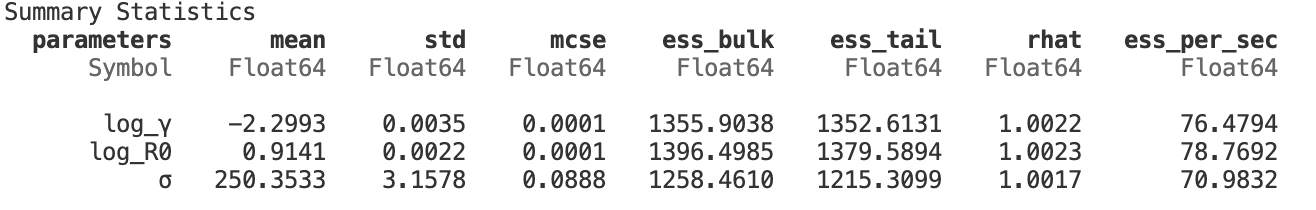
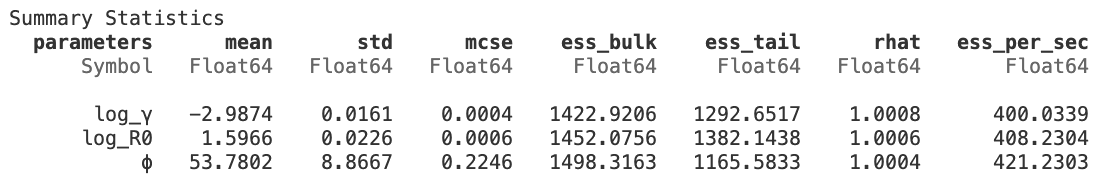
Update

diff --git a/scientific-programming-julia/index.html b/scientific-programming-julia/index.html
@@ -107,9 +107,6 @@
                 2. Inference
                 <br>
                 3. Model checking (and or improvement)
-                <br>
-                And then tests the model further by forecasting different scenarios 
-                during an epidemic.
             </p>
         </section>
 
@@ -159,51 +156,92 @@ end</code></pre>
             </div>
 
             <p class="text-gray-700 mt-6 mb-6">
-                Within this system, $\beta$ is the infection rate and $\gamma$ is the recovery rate - these allow a variety of diseases to be modelled. In this case, I chose the recovery time to be roughly 10 days, which gives $\gamma = 0.1$. $\beta = 0.25$ says that roughly a quarter of interactions will result in the disease being transmitted.
+                Within this system, $\beta$ is the infection rate and $\gamma$ is the recovery rate - 
+                these allow a variety of diseases to be modelled. In this case, the recovery time is set
+                to be roughly 20 days, which gives $\gamma = 0.05$. $\beta = 0.25$ says that in a fully 
+                susceptible population the rate at which an individual infects others is a quarter per day.
                 <br><br>
-                $R_0$ is the basic reproductive number, which is the expected number of cases directly generated by one case in a population where all individuals are susceptible to infection. $R_0$ is given by $R_0=\beta/\gamma$, hence, in this case, $R_0 = 2.5$, which for context gives it a similar infection profile to the common cold.
+                $R_0$ is the basic reproductive number, which is the expected number of cases directly 
+                generated by one case in a population where all individuals are susceptible to infection. 
+                $R_0$ is given by $R_0=\beta/\gamma$, hence, in this case, $R_0 = 5$, which for context gives 
+                it a similar infection profile to the common cold.
                 <br><br>
-                Using these values, the model with known parameters is used to calculate the solution to the system of ODEs. Adding Gaussian noise mimics the reporting biases, miscounting and other inconsistencies which is seen in real-world data.
+                Using these values, the model with known parameters is used to calculate 
+                the solution to the system of ODEs. Adding noise sampled from a negative binomial
+                distribution, mimics the reporting biases, miscounting and other inconsistencies which is 
+                seen in real-world data.
                 <br><br>
                 The code below defines the initial conditions:
                 <br>
                 - $N$ (population) = 10,000
                 <br>
-                - $I_0$ (Inital number of individuals with the disease) = 75
+                - $I_0$ (Inital number of individuals with the disease) = 150
                 <br>
                 - $R_0$ (Initial number of individuals who are immune to the disease) = 0
             </p>
             <div class="code-block">
-                <pre><code># Synthetic data generation
+                <pre><code>
+# Initial conditions and constants
 N = 1e4
 β_true = 0.25 # per day
-γ_true = 0.10 # per day (≈ 10-day infectious period)
+γ_true = 0.05 # per day (≈ 20-day infectious period)
 p = [β_true, γ_true]
 
-I0 = 75.0
+I0 = 150.0
 S0 = N - I0
 R0 = 0.0
 u0 = [S0, I0, R0]
 
-tspan = (0.0, 100.0)
+tspan = (0.0, 75.0)
 
-# Generate synthetic data
+# Generate the true solution
 prob = ODEProblem(sir, u0, tspan, p)
-sol = solve(prob, Tsit5())
-plot(sol, title="Solution to β=$β_true and γ=$γ_true")
-savefig("figs/true_sol.png")
+sol = solve(prob, Tsit5(), saveat=1) # Save daily
 
-sol = solve(prob, Tsit5(), saveat=0.1)
-noise = 250 * randn(size(Array(sol)))
-odedata = Array(sol) + noise
-plot(sol, title="Solution to β=$β_true and γ=$γ_true\nwith Gaussian noise")
-scatter!(sol.t, odedata', markersize=1)
-savefig("figs/noisy_true_sol.png")</code></pre>
+# Model cumulative error in the total infected count over time
+phi = 50.0
+I_with_error = []
+for daily_mean in sol[2, :]
+    # Ensure mean is positive number for the negative binomial distribution
+    if daily_mean > 0
+        p_val = phi / (phi + daily_mean)
+        neg_bin_dist = NegativeBinomial(phi, p_val)
+        error = rand(neg_bin_dist)
+        push!(I_with_error, error)
+    else
+        # If the deterministic mean is zero, the noisy value should also be zero
+        push!(I_with_error, 0)
+    end
+end
+
+plot(I_with_error,
+     title="Number of Infecteds with Observation Error",
+     xlabel="Days",
+     ylabel="I(t)",
+     linewidth=1,
+     linecolor=:black,
+     legend=false)
+savefig("figs/observed_error_infected.png")
+
+plot(sol, 
+     label=["S(t)" "I(t)" "R(t)"], 
+     title="SIR Solution with Observation Error",
+     xlabel="Days",
+     ylabel="Number of People",
+     linewidth=2)
+
+plot!(sol.t, 
+    I_with_error,  # Plot only the noisy infected data
+    label="I(t) + ε(t)", 
+    markersize=3, 
+    markerstrokewidth=0,
+    color="black")
+savefig("figs/true_sol_and_error.png")</code></pre>
             </div>
 
             <h3 class="text-2xl font-semibold text-gray-900 mt-8 mb-2">Figure 1: True Solution</h3>
             <p class="text-gray-700 mb-4">
-                The solution of the SIR model with $\beta, \gamma = 0.25, 0.1$. 
+                The solution of the SIR model with $\beta, \gamma = 0.25, 0.05$. 
                 The blue trajectory is the Susceptible compartment, 
                 the orange is the Infected compartment 
                 and the green is the Recovered compartment.
@@ -240,29 +278,53 @@ savefig("figs/noisy_true_sol.png")</code></pre>
                 Setting the weakly-informed prior as $\gamma \sim \text{Normal}(\log(0.1), 0.5)$ 
                 encompasses recovery times from 1 day to 74 days.
                 <br><br>
-                Then, for a disease to become an epidemic, $R_0 > 1$. Our guess of 2 
-                is a good starting point and the prior $\beta \sim \text{Normal}(\log(2.0), 0.4)$ 
-                encompasses any $R_0$ value from 0.9 to 4.4. Hence $\beta$ can be calculated via 
-                $\beta=R_0 \cdot \gamma$.
+                For a disease to become an epidemic, $R_0 > 1$. Our guess of 2.0 is a 
+                good starting point, and the prior on the log-transformed basic 
+                reproductive number, $\log(R_0)$, is given by a Normal distribution: 
+                $\log(R_0) \sim \text{Normal}(\log(2.0), 0.4)$. This prior encompasses
+                 a plausible range for $R_0$ values, approximately from 0.9 to 4.4. 
+                 The prior $\phi \sim \text{Gamma}(2, 5)$ is for the overdispersion 
+                 parameter of the Negative Binomial likelihood, which models the amount
+                  of noise in the observed data. Finally, the infection rate $\beta$ 
+                  can be calculated from the relationship $\beta=R_0 \cdot \gamma$.
                 <br><br>
-                The code below uses Turing.jl's `@model` macro to define this. `@model` enables the user to assign probability distributions to variables in the function. It also takes data in as input, then calculates the likelihoods, which then connects the parameters to the observations. It also automatically prepares the model for inference in the MCMC algorithm.
+                The code below uses Turing.jl's `@model` macro to define this. 
+                `@model` enables the user to assign probability distributions 
+                to variables in the function. It also takes data in as input, 
+                then calculates the likelihoods, which then connects the parameters 
+                to the observations. It also automatically prepares the model for 
+                inference in the MCMC algorithm.
             </p>
             <div class="code-block">
-                <pre><code>@model function sir_model(data, prob)
-    log_γ ~ Normal(log(0.1), 0.5)
+                <pre><code>@model function sir_model(I, prob)
+    log_γ ~ Normal(log(0.05), 0.5)
     log_R0 ~ Normal(log(2.0), 0.4)
-    σ ~ truncated(Cauchy(0, 100), 0, Inf)
+    # Overdispersion prior (positive)
+    ϕ ~ Gamma(2, 5)
 
+    # Transform parameters 
     γ = exp(log_γ)
     R0 = exp(log_R0)
     β = R0 * γ
 
-    p = [β, γ]
-    prob = remake(prob, p=p)
-    predicted = solve(prob, Tsit5(), saveat=0.1)
-    
-    for i in eachindex(predicted)
-        data[:, i] ~ MvNormal(predicted[i], σ)
+    # Solve ODE
+    p_prob = [β, γ]
+    prob = remake(prob, p=p_prob)
+    predicted_sol = solve(prob, Tsit5(), saveat=1)
+
+    # If the ODE is stiff, error is thrown as size(predicted_sol) = (3, 1)
+    if predicted_sol.retcode != :Success
+        Turing.@addlogprob! -Inf
+        return
+    end
+
+    # Likelihood
+    for i in 1:length(I)
+        predicted_I = predicted_sol[2, i] 
+        μ = max(predicted_I, 1e-6)
+        # (r, p) parameterization
+        p_likelihood = ϕ / (ϕ + μ)
+        I[i] ~ NegativeBinomial(ϕ, p_likelihood) 
     end
 end</code></pre>
             </div>
@@ -280,13 +342,12 @@ end</code></pre>
                 <pre><code># -----------
 # Inference
 # -----------
-model = sir_model(odedata, prob)
+model = sir_model(I_with_error, prob)
 chain = mapreduce(c -> sample(model, NUTS(.65),1000), chainscat, 1:3)
 
 plot(chain)
 savefig("figs/chain.png")
 
-# Posterior analysis
 display(summarystats(chain))</code></pre>
             </div>
 
@@ -317,46 +378,45 @@ display(summarystats(chain))</code></pre>
         <section class="mb-12">
             <h2 class="text-3xl font-semibold text-gray-900 mb-4">4. Model Checking</h2>
             <p class="text-gray-700 mb-6">
-                The next step in a Bayesian Workflow is to check if the fitted model 
+                The next step in this workflow is to check if the fitted model 
                 can reproduce data which closely resembles the observed data.
                  By taking many samples from the posterior distribution 
-                 (1000 in this case) these can be put into the ODE and solved 
+                 (100 in this case) these can be put into the ODE and solved 
                  to generate similar data.
             </p>
             <div class="code-block">
                 <pre><code># -----------
-# Use model to generate data
+# Posterior Checks
 # -----------
 log_gammas = chain[:log_γ]
 log_R0s = chain[:log_R0]
+
+# Convert posterior samples to β and γ
 gammas = exp.(log_gammas)
 R0s = exp.(log_R0s)
 betas = gammas .* R0s
-                    
-num_simulations = length(betas)
-simulated_infected = Vector{Vector{Float64}}(undef, num_simulations)
-time_points = sol.t
-                    
-generated_plot = plot(
-    xlabel = "Time",
-    ylabel = "I(t)",
-    title = "Posterior Predictive Checks",
-    legend = false,
+
+plot1 = plot(
+    xlabel="Time (days)",
+    ylabel="I(t)",
+    title="Posterior Predictive Checks",
+    legend=false,
 )
-                    
-for i in 1:num_simulations
+
+# Plot a sample of 100 of the posterior solutions
+for i in 1:100
     β_i = betas[i]
     γ_i = gammas[i]
-                        
+
     p_i = [β_i, γ_i]
     prob_i = ODEProblem(sir, u0, tspan, p_i)
-                    
+
     # Solve the ODE and save at the same time points
     sol_i = solve(prob_i, Tsit5(), saveat=time_points)
-    plot!(generated_plot, sol_i.t, sol_i[2, :], color=:black, alpha=0.9)
+    plot!(plot1, sol_i.t, sol_i[2, :], color=:red, alpha=0.2)
 end
-                    
-savefig(generated_plot, "figs/generated_sols.png")</code></pre>
+plot!(plot1, I_with_error, color=:black)
+savefig(plot1, "figs/generated_sols.png")</code></pre>
             </div>
             <h3 class="text-2xl font-semibold text-gray-900 mt-8 mb-2">Figure 4: Posterior-Informed Data</h3>
             <p class="text-gray-700 mb-4">
@@ -371,7 +431,7 @@ savefig(generated_plot, "figs/generated_sols.png")</code></pre>
         </section>
 
         <section class="mb-12">
-            <h2 class="text-3xl font-semibold text-gray-900 mb-4">5. Forecasting</h2>
+            <h2 class="text-3xl font-semibold text-gray-900 mb-4">Forecasting</h2>
             <p class="text-gray-700 mb-6">
                 Finally, the posterior distribution can be used to make predictions 
                 about the future, from day any $n$ to $n+m$ within the epidemic. 
@@ -381,76 +441,75 @@ savefig(generated_plot, "figs/generated_sols.png")</code></pre>
             </p>
             <div class="code-block">
                 <pre><code># -----------
-# Forecasting
+# Posterior Check via Forecasting
 # -----------
-forecast_length = [5, 15, 30]
-forecast_from = [20, 35, 60]
+forecast_length = [5, 15, 25]
+forecast_from = [10, 25, 50]
 
-t_end_historical = 100.0
-I_0 = 75.0
-u0_historical = [N - I0, I0, 0.0]
-p_historical = [0.25, 0.1]
-prob_historical = ODEProblem(sir_ode!, u0_historical, (0.0, t_end_historical), p_historical)
-sol_historical = solve(prob_historical, Tsit5())
+N = 1e4
+β_true = 0.25 # per day
+γ_true = 0.05 # per day (≈ 10-day infectious period)
+p = [β_true, γ_true]
 
-# Plot same day on rows, forecast length on the columns
-p_grid = []
+I0 = 150.0
+S0 = N - I0
+R0 = 0.0
+u0 = [S0, I0, R0]
 
-betas = [0.2 + 0.01 * randn() for _ in 1:1000]
-gammas = [0.1 + 0.005 * randn() for _ in 1:1000]
-
-# Loop through each starting day
-# Generate a cloud of historical trajectories
-historical_trajectories = []
-for i in 1:num_forecast_sims
-    β = betas[i]
-    γ = gammas[i]
-    p = [β, γ]
-    prob_hist = ODEProblem(sir_ode!, u0_historical, (0.0, t_end_historical), p)
-    sol_hist = solve(prob_hist, Tsit5())
-    push!(historical_trajectories, sol_hist)
-end
-
-# Define the forecast lengths and starting days
-forecast_length = [5, 15, 30]
-forecast_from = [20, 35, 60]
+tspan = (0.0, 75.0)
+num_simulations = 300
 
 # Prepare a layout for the 3x3 plot
 p_grid = []
-
-num_forecast_sims = 500
-
 for start_day in forecast_from
     for forecast_len in forecast_length
         # Setup forecast from the historical solution
-        u0_forecast = sol_historical(start_day)
+        u0_forecast = sol(start_day)
         tspan_forecast = (start_day, start_day + forecast_len)
         
         # Create a subplot for this specific combination
-        p_subplot = plot(title="Day $start_day - $(start_day+forecast_len)", legend=false)
+        p_subplot = plot(
+            title="Forecast from Day $start_day",
+            legend=false,
+            xlims=(0, start_day + forecast_len),
+            xlabel="Time (days)",
+            ylabel="Infected Population"
+        )
         
         # Add a vertical line to show where the forecast starts
         vline!([start_day], linestyle=:dash, color=:black, label=false)
         
-        for i in 1:num_forecast_sims
+        # Loop through posterior samples to create the forecast
+        for i in 1:num_simulations
             β = betas[i]
             γ = gammas[i]
-            p = [β, γ]
+            p_i = [β, γ]
             
-            prob_forecast = ODEProblem(sir, u0_forecast, tspan_forecast, p)
-            sol_forecast = solve(prob_forecast, Tsit5())
+            prob_forecast = ODEProblem(sir, u0_forecast, tspan_forecast, p_i)
+            sol_forecast = solve(prob_forecast, Tsit5(), saveat=1)
 
             # Plot the individual forecast trajectory on the current subplot
-            plot!(p_subplot, sol_forecast, vars=(0, 2), alpha=0.1, color=:lightblue1)
+            plot!(p_subplot, 
+                sol_forecast, 
+                vars=(0, 2), 
+                alpha=0.2, 
+                color=:lightblue1)
         end
         
-        # Add the historical curve for context
-        plot!(p_subplot, sol_historical, vars=(0, 2), xlims=(0, tspan_forecast[2]), color=:gray, linewidth=2, label=false)
+        # Plot the true solution
+        plot!(p_subplot, 
+            sol, 
+            vars=(0, 2), 
+            tspan=(0, start_day+forecast_len), 
+            linewidth=2, 
+            color=:black, 
+            label=false)
+
         push!(p_grid, p_subplot)
     end
 end
 
-plot(p_grid..., layout=(3, 3), size=(1200, 1200), xlabel="Time (days)", ylabel="Infected Population")
+plot(p_grid..., layout=(3, 3), size=(1200, 1200))
 savefig("figs/forecast.png")</code></pre>
             </div>
             
